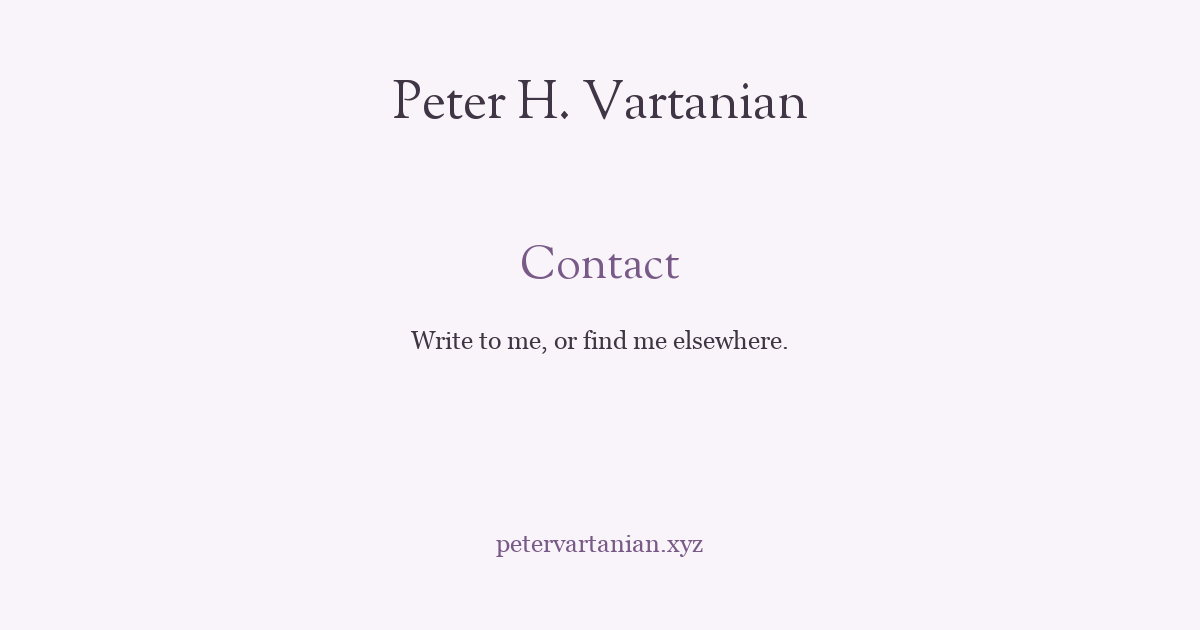
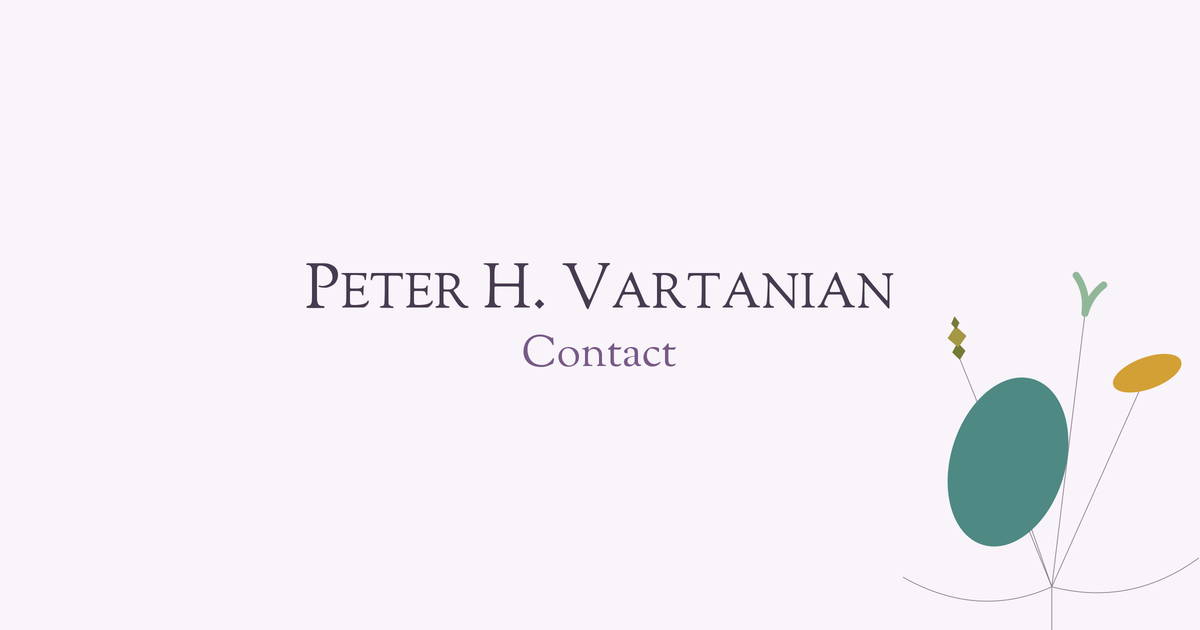
Publish page-specific share cards and complete responsive refinements

diff --git a/assets/css/personal.css b/assets/css/personal.css
@@ -7,15 +7,15 @@
   --paper: #faf8f7;
   --ink: #3f3544;
   --link: #755276;
-  --quiet: #7c717f;
+  --quiet: #776c7a;
   --line: #3f354420;
 }
 * { box-sizing: border-box; }
-html { scroll-padding-top: 30px; }
+html { scroll-padding-top: 30px; -webkit-text-size-adjust: 100%; text-size-adjust: 100%; }
 body { margin: 0; background: var(--paper); color: var(--ink); }
-body[data-page=writing] { --paper: #faf5f3; --ink: #483639; --link: #884d5a; --quiet: #826e70; --line: #48363920; }
-body[data-page=cv] { --paper: #f4f7fa; --ink: #303d4e; --link: #46698a; --quiet: #6d7b89; --line: #303d4e20; }
-body[data-page=contact] { --paper: #f8f4f9; --ink: #473b50; --link: #785987; --quiet: #7d6d84; --line: #473b5020; }
+body[data-page=writing] { --paper: #faf5f3; --ink: #483639; --link: #884d5a; --quiet: #7c686a; --line: #48363920; }
+body[data-page=cv] { --paper: #f4f7fa; --ink: #303d4e; --link: #46698a; --quiet: #657381; --line: #303d4e20; }
+body[data-page=contact] { --paper: #f8f4f9; --ink: #473b50; --link: #785987; --quiet: #77677e; --line: #473b5020; }
 a { color: var(--link); text-decoration-thickness: 1px; text-underline-offset: 3px; text-decoration-color: color-mix(in srgb, var(--link) 45%, transparent); }
 a:hover { text-decoration-color: currentColor; }
 a:focus-visible, button:focus-visible, summary:focus-visible { outline: 2px solid var(--link); outline-offset: 5px; }
@@ -26,7 +26,7 @@ h1 { font-family: 'Sorts Mill Goudy', Georgia, serif; font-size: 28px; font-styl
 h2 { font-size: 18px; line-height: 1.4; }
 h3 { font-size: 16px; line-height: 1.5; }
 .page { width: min(640px, calc(100% - 48px)); margin: 0 auto; }
-body[data-page=home] .page { position: relative; }
+body[data-page=home] .page { position: relative; display: flex; flex-direction: column; min-height: 100vh; min-height: 100svh; }
 .name-thread { position: absolute; inset: 0; width: 100%; height: 100%; overflow: visible; pointer-events: none; color: #8b7b8e; }
 .name-thread path { fill: none; stroke: currentColor; stroke-width: .7px; stroke-linecap: round; }
 header { width: max-content; max-width: 100%; margin: 0 auto; padding: 65px 0 0; text-align: center; }
@@ -168,11 +168,22 @@ a.note-badge:hover { text-decoration: underline; }
   .profile-list > div { grid-template-columns: 95px 1fr; gap: 15px; font-size: 14px; }
   .profile-list dd { font-size: 12px; }
 }
-body[data-page=home] footer { border: 0; margin-top: 24px; padding: 12px 0 18px; text-align: center; font-size: 10px; }
-@media screen and (min-width: 601px) {
-  body[data-page=home] footer { position: fixed; left: 50%; bottom: 16px; transform: translateX(-50%); margin: 0; padding: 0; text-align: center; white-space: nowrap; }
+body[data-page=home] footer { border: 0; margin-top: auto; padding: 24px 0 16px; text-align: center; font-size: 10px; }
+header nav a, .download-button, .note-ref, a.note-badge { position: relative; }
+header nav a::after, .download-button::after, .note-ref::after, a.note-badge::after { content: ""; position: absolute; left: 50%; top: 50%; transform: translate(-50%, -50%); width: max(100%, 24px); height: max(100%, 24px); }
+header nav a::after, .download-button::after { min-width: 44px; min-height: 44px; }
+@media (max-width: 360px) {
+  .title-line { gap: 10px; }
+  .title-line h1 { font-size: 22px; white-space: nowrap; }
+  .download-button { padding: 8px; font-size: 11px; }
+  .experience-table th { padding-right: 12px; }
+  .experience-table td { width: 94px; padding-left: 10px; }
+  .contact-table th { width: 116px; }
+  .contact-table td { padding-left: 8px; }
 }
 @media print {
+  body[data-page=home] .page { display: block; min-height: 0; }
+  .name-thread { display: none; }
   body { background: white !important; color: #111 !important; }
   .page { width: 100%; }
   header { padding: 0; text-align: left; }

diff --git a/portfolio/index.html b/portfolio/index.html
@@ -11,13 +11,21 @@
   <meta property="og:description" content="Published writing on security, resources, law, and technology.">
   <meta property="og:type" content="website">
   <meta property="og:url" content="https://petervartanian.xyz/portfolio/">
-  <meta property="og:image" content="https://petervartanian.xyz/assets/img/social-writing.png">
+  <meta property="og:image" content="https://petervartanian.xyz/assets/img/social-writing.png?v=cd34f92119dd">
+  <meta property="og:image:width" content="1200">
+  <meta property="og:image:height" content="630">
+  <meta property="og:image:type" content="image/png">
+  <meta property="og:image:alt" content="Peter H. Vartanian — Writing, with a composition of colored mobile shapes">
   <meta name="twitter:card" content="summary_large_image">
+  <meta name="twitter:title" content="Writing — Peter H. Vartanian">
+  <meta name="twitter:description" content="Published writing on security, resources, law, and technology.">
+  <meta name="twitter:image" content="https://petervartanian.xyz/assets/img/social-writing.png?v=cd34f92119dd">
+  <meta name="twitter:image:alt" content="Peter H. Vartanian — Writing, with a composition of colored mobile shapes">
   <link rel="icon" href="/favicon.ico" sizes="any">
   <link rel="alternate" type="application/atom+xml" title="Writing" href="/feed.xml">
   <link rel="manifest" href="/site.webmanifest">
   <link rel="preload" href="/assets/fonts/SortsMillGoudy-Regular.ttf" as="font" type="font/ttf" crossorigin>
-  <link rel="stylesheet" href="/assets/css/personal.css?v=189976dce0db">
+  <link rel="stylesheet" href="/assets/css/personal.css?v=f11b3087c801">
   <script src="/assets/js/personal.js?v=a5251034aa8a" defer></script>
 </head>
 <body data-page="writing">

diff --git a/contact/index.html b/contact/index.html
@@ -11,13 +11,21 @@
   <meta property="og:description" content="Get in touch with Peter H. Vartanian.">
   <meta property="og:type" content="website">
   <meta property="og:url" content="https://petervartanian.xyz/contact/">
-  <meta property="og:image" content="https://petervartanian.xyz/assets/img/social-contact.png">
+  <meta property="og:image" content="https://petervartanian.xyz/assets/img/social-contact.png?v=f32705b2a32e">
+  <meta property="og:image:width" content="1200">
+  <meta property="og:image:height" content="630">
+  <meta property="og:image:type" content="image/png">
+  <meta property="og:image:alt" content="Peter H. Vartanian — Contact, with a composition of colored mobile shapes">
   <meta name="twitter:card" content="summary_large_image">
+  <meta name="twitter:title" content="Contact — Peter H. Vartanian">
+  <meta name="twitter:description" content="Get in touch with Peter H. Vartanian.">
+  <meta name="twitter:image" content="https://petervartanian.xyz/assets/img/social-contact.png?v=f32705b2a32e">
+  <meta name="twitter:image:alt" content="Peter H. Vartanian — Contact, with a composition of colored mobile shapes">
   <link rel="icon" href="/favicon.ico" sizes="any">
   <link rel="alternate" type="application/atom+xml" title="Writing" href="/feed.xml">
   <link rel="manifest" href="/site.webmanifest">
   <link rel="preload" href="/assets/fonts/SortsMillGoudy-Regular.ttf" as="font" type="font/ttf" crossorigin>
-  <link rel="stylesheet" href="/assets/css/personal.css?v=189976dce0db">
+  <link rel="stylesheet" href="/assets/css/personal.css?v=f11b3087c801">
   <script src="/assets/js/personal.js?v=a5251034aa8a" defer></script>
 </head>
 <body data-page="contact">

diff --git a/cv/index.html b/cv/index.html
@@ -11,13 +11,21 @@
   <meta property="og:description" content="Education, experience, languages, and research methods.">
   <meta property="og:type" content="website">
   <meta property="og:url" content="https://petervartanian.xyz/cv/">
-  <meta property="og:image" content="https://petervartanian.xyz/assets/img/social-cv.png">
+  <meta property="og:image" content="https://petervartanian.xyz/assets/img/social-cv.png?v=a2e808fbbe81">
+  <meta property="og:image:width" content="1200">
+  <meta property="og:image:height" content="630">
+  <meta property="og:image:type" content="image/png">
+  <meta property="og:image:alt" content="Peter H. Vartanian — CV, with a composition of colored mobile shapes">
   <meta name="twitter:card" content="summary_large_image">
+  <meta name="twitter:title" content="CV — Peter H. Vartanian">
+  <meta name="twitter:description" content="Education, experience, languages, and research methods.">
+  <meta name="twitter:image" content="https://petervartanian.xyz/assets/img/social-cv.png?v=a2e808fbbe81">
+  <meta name="twitter:image:alt" content="Peter H. Vartanian — CV, with a composition of colored mobile shapes">
   <link rel="icon" href="/favicon.ico" sizes="any">
   <link rel="alternate" type="application/atom+xml" title="Writing" href="/feed.xml">
   <link rel="manifest" href="/site.webmanifest">
   <link rel="preload" href="/assets/fonts/SortsMillGoudy-Regular.ttf" as="font" type="font/ttf" crossorigin>
-  <link rel="stylesheet" href="/assets/css/personal.css?v=189976dce0db">
+  <link rel="stylesheet" href="/assets/css/personal.css?v=f11b3087c801">
   <script src="/assets/js/personal.js?v=a5251034aa8a" defer></script>
 </head>
 <body data-page="cv">

diff --git a/404.html b/404.html
@@ -11,13 +11,21 @@
   <meta property="og:description" content="This page could not be found.">
   <meta property="og:type" content="website">
   <meta property="og:url" content="https://petervartanian.xyz/404.html">
-  <meta property="og:image" content="https://petervartanian.xyz/assets/img/social-home.png">
+  <meta property="og:image" content="https://petervartanian.xyz/assets/img/social-home.png?v=bb8bbfe5a41c">
+  <meta property="og:image:width" content="1200">
+  <meta property="og:image:height" content="630">
+  <meta property="og:image:type" content="image/png">
+  <meta property="og:image:alt" content="Peter H. Vartanian — Page not found, with a composition of colored mobile shapes">
   <meta name="twitter:card" content="summary_large_image">
+  <meta name="twitter:title" content="Page not found — Peter H. Vartanian">
+  <meta name="twitter:description" content="This page could not be found.">
+  <meta name="twitter:image" content="https://petervartanian.xyz/assets/img/social-home.png?v=bb8bbfe5a41c">
+  <meta name="twitter:image:alt" content="Peter H. Vartanian — Page not found, with a composition of colored mobile shapes">
   <link rel="icon" href="/favicon.ico" sizes="any">
   <link rel="alternate" type="application/atom+xml" title="Writing" href="/feed.xml">
   <link rel="manifest" href="/site.webmanifest">
   <link rel="preload" href="/assets/fonts/SortsMillGoudy-Regular.ttf" as="font" type="font/ttf" crossorigin>
-  <link rel="stylesheet" href="/assets/css/personal.css?v=189976dce0db">
+  <link rel="stylesheet" href="/assets/css/personal.css?v=f11b3087c801">
   <script src="/assets/js/personal.js?v=a5251034aa8a" defer></script>
 </head>
 <body data-page="home">

diff --git a/index.html b/index.html
@@ -11,13 +11,21 @@
   <meta property="og:description" content="Research and writing by Peter H. Vartanian.">
   <meta property="og:type" content="website">
   <meta property="og:url" content="https://petervartanian.xyz/">
-  <meta property="og:image" content="https://petervartanian.xyz/assets/img/social-home.png">
+  <meta property="og:image" content="https://petervartanian.xyz/assets/img/social-home.png?v=bb8bbfe5a41c">
+  <meta property="og:image:width" content="1200">
+  <meta property="og:image:height" content="630">
+  <meta property="og:image:type" content="image/png">
+  <meta property="og:image:alt" content="Peter H. Vartanian — Home, with a composition of colored mobile shapes">
   <meta name="twitter:card" content="summary_large_image">
+  <meta name="twitter:title" content="Home — Peter H. Vartanian">
+  <meta name="twitter:description" content="Research and writing by Peter H. Vartanian.">
+  <meta name="twitter:image" content="https://petervartanian.xyz/assets/img/social-home.png?v=bb8bbfe5a41c">
+  <meta name="twitter:image:alt" content="Peter H. Vartanian — Home, with a composition of colored mobile shapes">
   <link rel="icon" href="/favicon.ico" sizes="any">
   <link rel="alternate" type="application/atom+xml" title="Writing" href="/feed.xml">
   <link rel="manifest" href="/site.webmanifest">
   <link rel="preload" href="/assets/fonts/SortsMillGoudy-Regular.ttf" as="font" type="font/ttf" crossorigin>
-  <link rel="stylesheet" href="/assets/css/personal.css?v=189976dce0db">
+  <link rel="stylesheet" href="/assets/css/personal.css?v=f11b3087c801">
   <script src="/assets/js/personal.js?v=a5251034aa8a" defer></script>
 </head>
 <body data-page="home">

diff --git a/scripts/preview_cards.py b/scripts/preview_cards.py
@@ -1,0 +1,78 @@
+import ast, json
+from pathlib import Path
+from PIL import Image, ImageDraw, ImageFont
+root=Path(__file__).resolve().parents[1]
+out=root/'preview-cards'
+out.mkdir(exist_ok=True)
+tree=ast.parse((root/'build.py').read_text())
+parts=next(ast.literal_eval(n.value) for n in tree.body if isinstance(n,ast.Assign) and any(isinstance(t,ast.Name) and t.id=='mobile_parts' for t in n.targets))
+scales=next(ast.literal_eval(n.value) for n in tree.body if isinstance(n,ast.Assign) and any(isinstance(t,ast.Name) and t.id=='piece_scales' for t in n.targets))
+fontpath=str(root/'assets/fonts/SortsMillGoudy-Regular.ttf')
+S=2
+palettes={'home':('#faf8f7','#3f3544','#755276'),'writing':('#faf5f3','#483639','#884d5a'),'cv':('#f4f7fa','#303d4e','#46698a'),'contact':('#f8f4f9','#473b50','#785987')}
+
+def smallcaps(draw,text,pos,size,fill):
+ x,y=pos
+ for c in text:
+  font=ImageFont.truetype(fontpath,round(size*S*(.78 if c.islower() else 1)))
+  draw.text((round(x*S),round(y*S)),c.upper(),font=font,fill=fill,anchor='ls')
+  x+=draw.textlength(c.upper(),font=font)/S + .45
+ return x
+
+def shape(i,x,y,scale=1,rotate=0):
+ name,home,mount,(ax,ay),svg=parts[i]
+ s=scale*scales.get(i,1)
+ return f'<g transform="translate({x} {y}) rotate({rotate}) scale({s})">{svg}</g>'
+
+for key,(paper,ink,accent) in palettes.items():
+ canvas=Image.new('RGB',(1200*S,630*S),paper)
+ # Center the visible glyph bounds, rather than the font's line box.
+ name_layer=Image.new('RGBA',(1200*S,150*S))
+ smallcaps(ImageDraw.Draw(name_layer),'Peter H. Vartanian',(0,90),62,ink)
+ name_layer=name_layer.crop(name_layer.getbbox())
+ layers=[name_layer]
+ if key!='home':
+  label={'writing':'Writing','cv':'Curriculum vitæ','contact':'Contact'}[key]
+  label_layer=Image.new('RGBA',(1200*S,120*S))
+  ImageDraw.Draw(label_layer).text((0,75*S),label,font=ImageFont.truetype(fontpath,44*S),fill=accent,anchor='ls')
+  layers.append(label_layer.crop(label_layer.getbbox()))
+ gap=25*S
+ total_h=sum(layer.height for layer in layers)+gap*(len(layers)-1)
+ y=(canvas.height-total_h)//2
+ for layer in layers:
+  canvas.paste(layer,((canvas.width-layer.width)//2,y),layer)
+  y+=layer.height+gap
+ canvas.save(out/f'{key}-type.png')
+ art=[]
+ if key=='home':
+  # The same suspended construction, enlarged past the right edge of the card.
+  art.append('<g transform="translate(-44 -65) scale(.75)">')
+  art.append('<g fill="none" stroke="#8b7b8e" stroke-width="1.25"><path d="M266-20V68 M117 114Q191 48 266 68Q352 48 421 118 M266 68V216 M47 282Q133 205 266 216Q366 221 455 282 M266 216L260 340 M130 351Q215 321 260 340Q305 322 330 365Q389 359 425 380"/>')
+  for i,(_, (x,y),(mx,my),(ax,ay),_) in enumerate(parts):
+   scale=scales.get(i,1)
+   art.append(f'<path d="M{mx} {my}L{x+ax*scale} {y+ay*scale}"/>')
+  art.append('</g>')
+  for i,(_, (x,y),_,_,_) in enumerate(parts):art.append(shape(i,x,y))
+  art.append('</g>')
+ else:
+  # Each companion card quotes a different fragment of the same mobile.
+  positions={
+   'writing':[(0,991,189,1.9,8),(8,813,394,1.1,-12),(13,1050,505,1.7,8),(9,720,476,1.15,-9)],
+   'cv':[(2,987,306,2.05,-9),(6,826,459,1.6,0),(10,795,188,1.25,6),(11,1121,482,1.5,0)],
+   'contact':[(1,1020,280,1.95,-10),(4,788,428,1.2,8),(14,1102,464,1.45,-7),(12,889,550,1.1,7)]
+  }[key]
+  # Join every hanging piece to a single bent arm entering the image edge.
+  art.append('<g fill="none" stroke="#8b7b8e" stroke-width="1.25"><path d="M947-10V72M702 120Q815 38 947 72Q1069 17 1195 88"/>')
+  import math
+  for i,x,y,s,r in positions:
+   ax,ay=parts[i][3];s*=scales.get(i,1);rad=math.radians(r)
+   tx=x+s*(ax*math.cos(rad)-ay*math.sin(rad));ty=y+s*(ax*math.sin(rad)+ay*math.cos(rad))
+   art.append(f'<path d="M947 72L{tx:.3f} {ty:.3f}"/>')
+  art.append('</g>')
+  art += [shape(i,x,y,s,r) for i,x,y,s,r in positions]
+ if key!='home':
+  corner={'writing':'translate(480 -90) scale(.6)','cv':'translate(720 630) scale(-.6 -.6)','contact':'translate(1620 630) scale(-.6 -.6)'}[key]
+  art=['<g transform="'+corner+'">']+art+['</g>']
+ svg='<svg xmlns="http://www.w3.org/2000/svg" width="1200" height="630" viewBox="0 0 1200 630">'+''.join(art)+'</svg>'
+ (out/f'{key}-art.svg').write_text(svg)
+print(out)

diff --git a/build.py b/build.py
@@ -23,6 +23,9 @@ def page(key, title, description, body, path):
     nav = '\n'.join(nav_parts)
     name_tag = 'h1' if key == 'home' and path == '/' else 'div'
     name = 'Peter <span class="name-anchor">H.</span> Vartanian' if key == 'home' else 'Peter H. Vartanian'
+    image_version = sha256((ROOT / f'assets/img/social-{key}.png').read_bytes()).hexdigest()[:12]
+    image_url = f'https://petervartanian.xyz/assets/img/social-{key}.png?v={image_version}'
+    image_alt = f'Peter H. Vartanian — {title}, with a composition of colored mobile shapes'
     html = f'''<!doctype html>
 <html lang="en">
 <head>
@@ -36,8 +39,16 @@ def page(key, title, description, body, path):
   <meta property="og:description" content="{e(description)}">
   <meta property="og:type" content="website">
   <meta property="og:url" content="https://petervartanian.xyz{path}">
-  <meta property="og:image" content="https://petervartanian.xyz/assets/img/social-{key}.png">
+  <meta property="og:image" content="{image_url}">
+  <meta property="og:image:width" content="1200">
+  <meta property="og:image:height" content="630">
+  <meta property="og:image:type" content="image/png">
+  <meta property="og:image:alt" content="{e(image_alt)}">
   <meta name="twitter:card" content="summary_large_image">
+  <meta name="twitter:title" content="{e(title)} — Peter H. Vartanian">
+  <meta name="twitter:description" content="{e(description)}">
+  <meta name="twitter:image" content="{image_url}">
+  <meta name="twitter:image:alt" content="{e(image_alt)}">
   <link rel="icon" href="/favicon.ico" sizes="any">
   <link rel="alternate" type="application/atom+xml" title="Writing" href="/feed.xml">
   <link rel="manifest" href="/site.webmanifest">

diff --git a/README.md b/README.md
@@ -19,3 +19,5 @@ The homepage has an interactive SVG mobile with varied coloured shapes and a sus
 `/portfolio/` retains all published writing. `/writing/` is an alias. The old placeholder collection at `/artifacts/` redirects to `/portfolio/`.
 
 The build updates only the personal pages. Other applications in the repository are neither modified nor linked from the personal site.
+
+Shared links use four 1200 × 630 preview images with backgrounds matching their pages. The preview artwork can be regenerated with `scripts/preview_cards.py` (Pillow) and `scripts/render_preview_cards.cjs` (Sharp); these optional tools are not needed to build the site. Approved PNGs live in `assets/img/social-*.png`.
